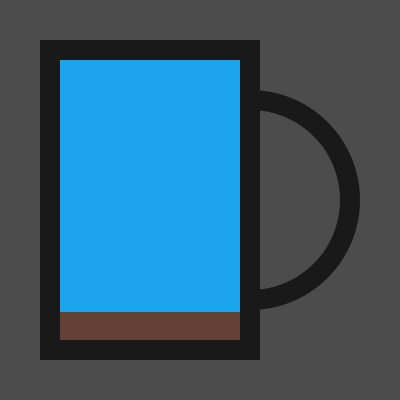
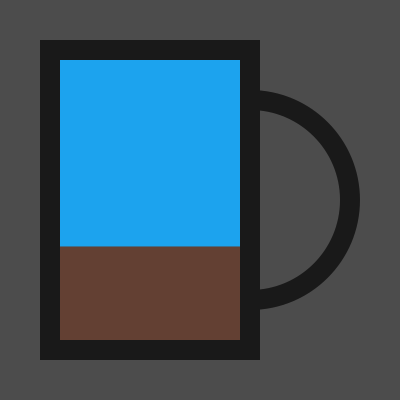
vali fixed it lel

Changed region(s): [[0.15, 0.6, 0.6, 0.78]]

diff --git a/svggen.py b/svggen.py
@@ -1,7 +1,8 @@
 import cairo
 import math
 
-ratio = 10
+ratio = 2 # 1 part coffee (2) parts water
+ratio += 1 # Add to correct for off-by-one
 
 percentcoffee= 1/ratio*100
 percentwater= 100-percentcoffee
